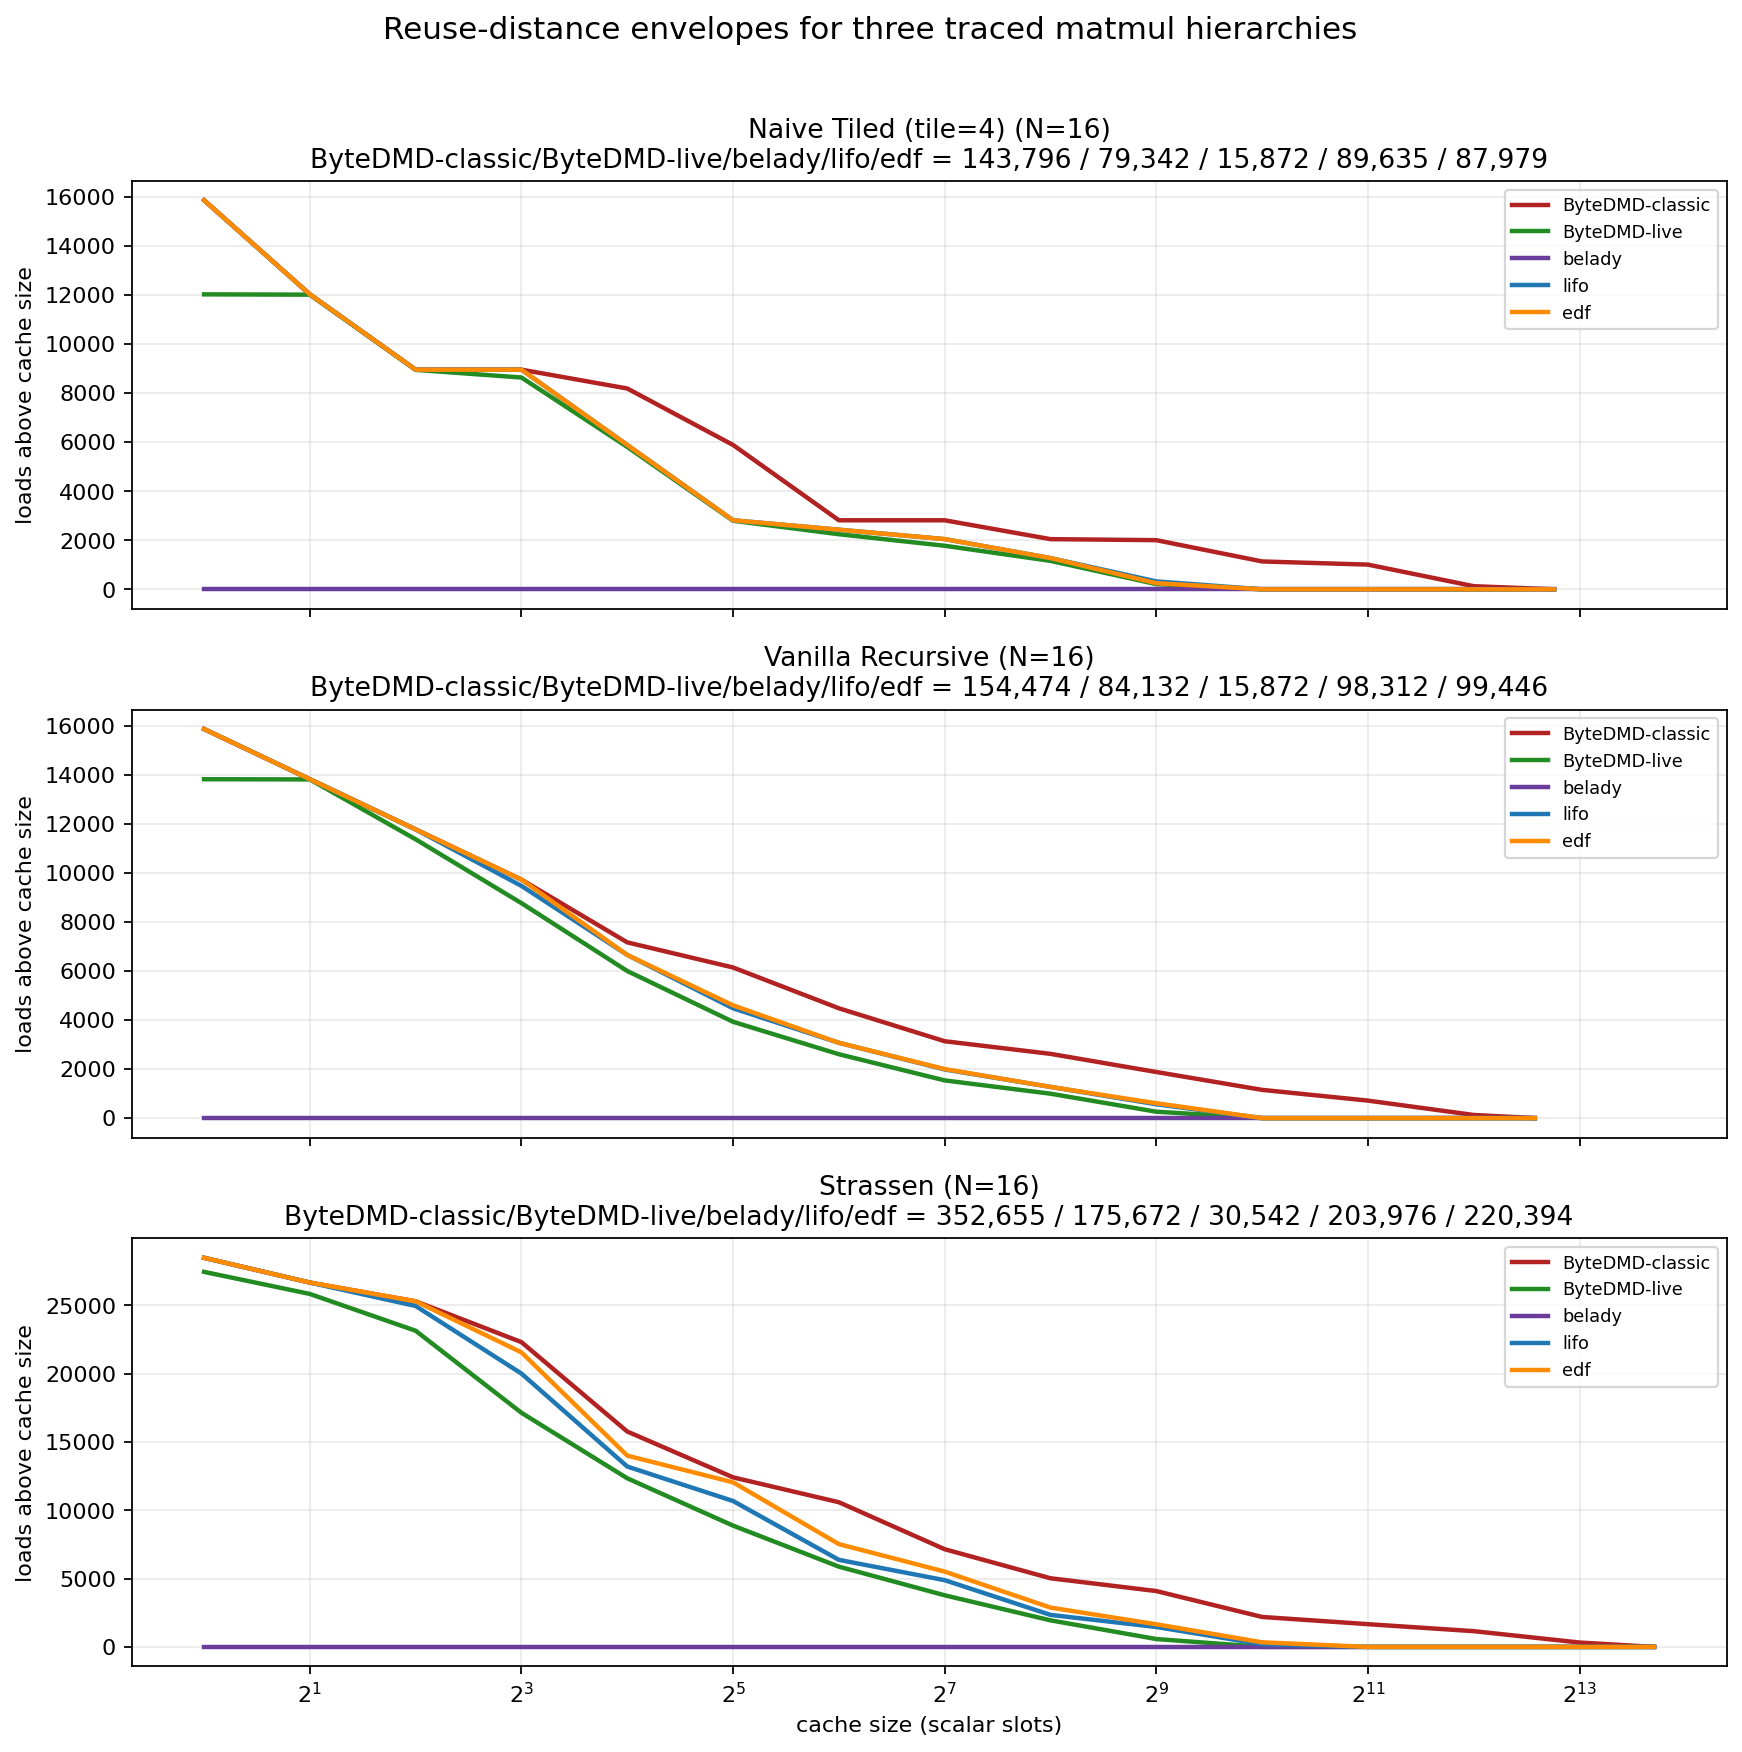
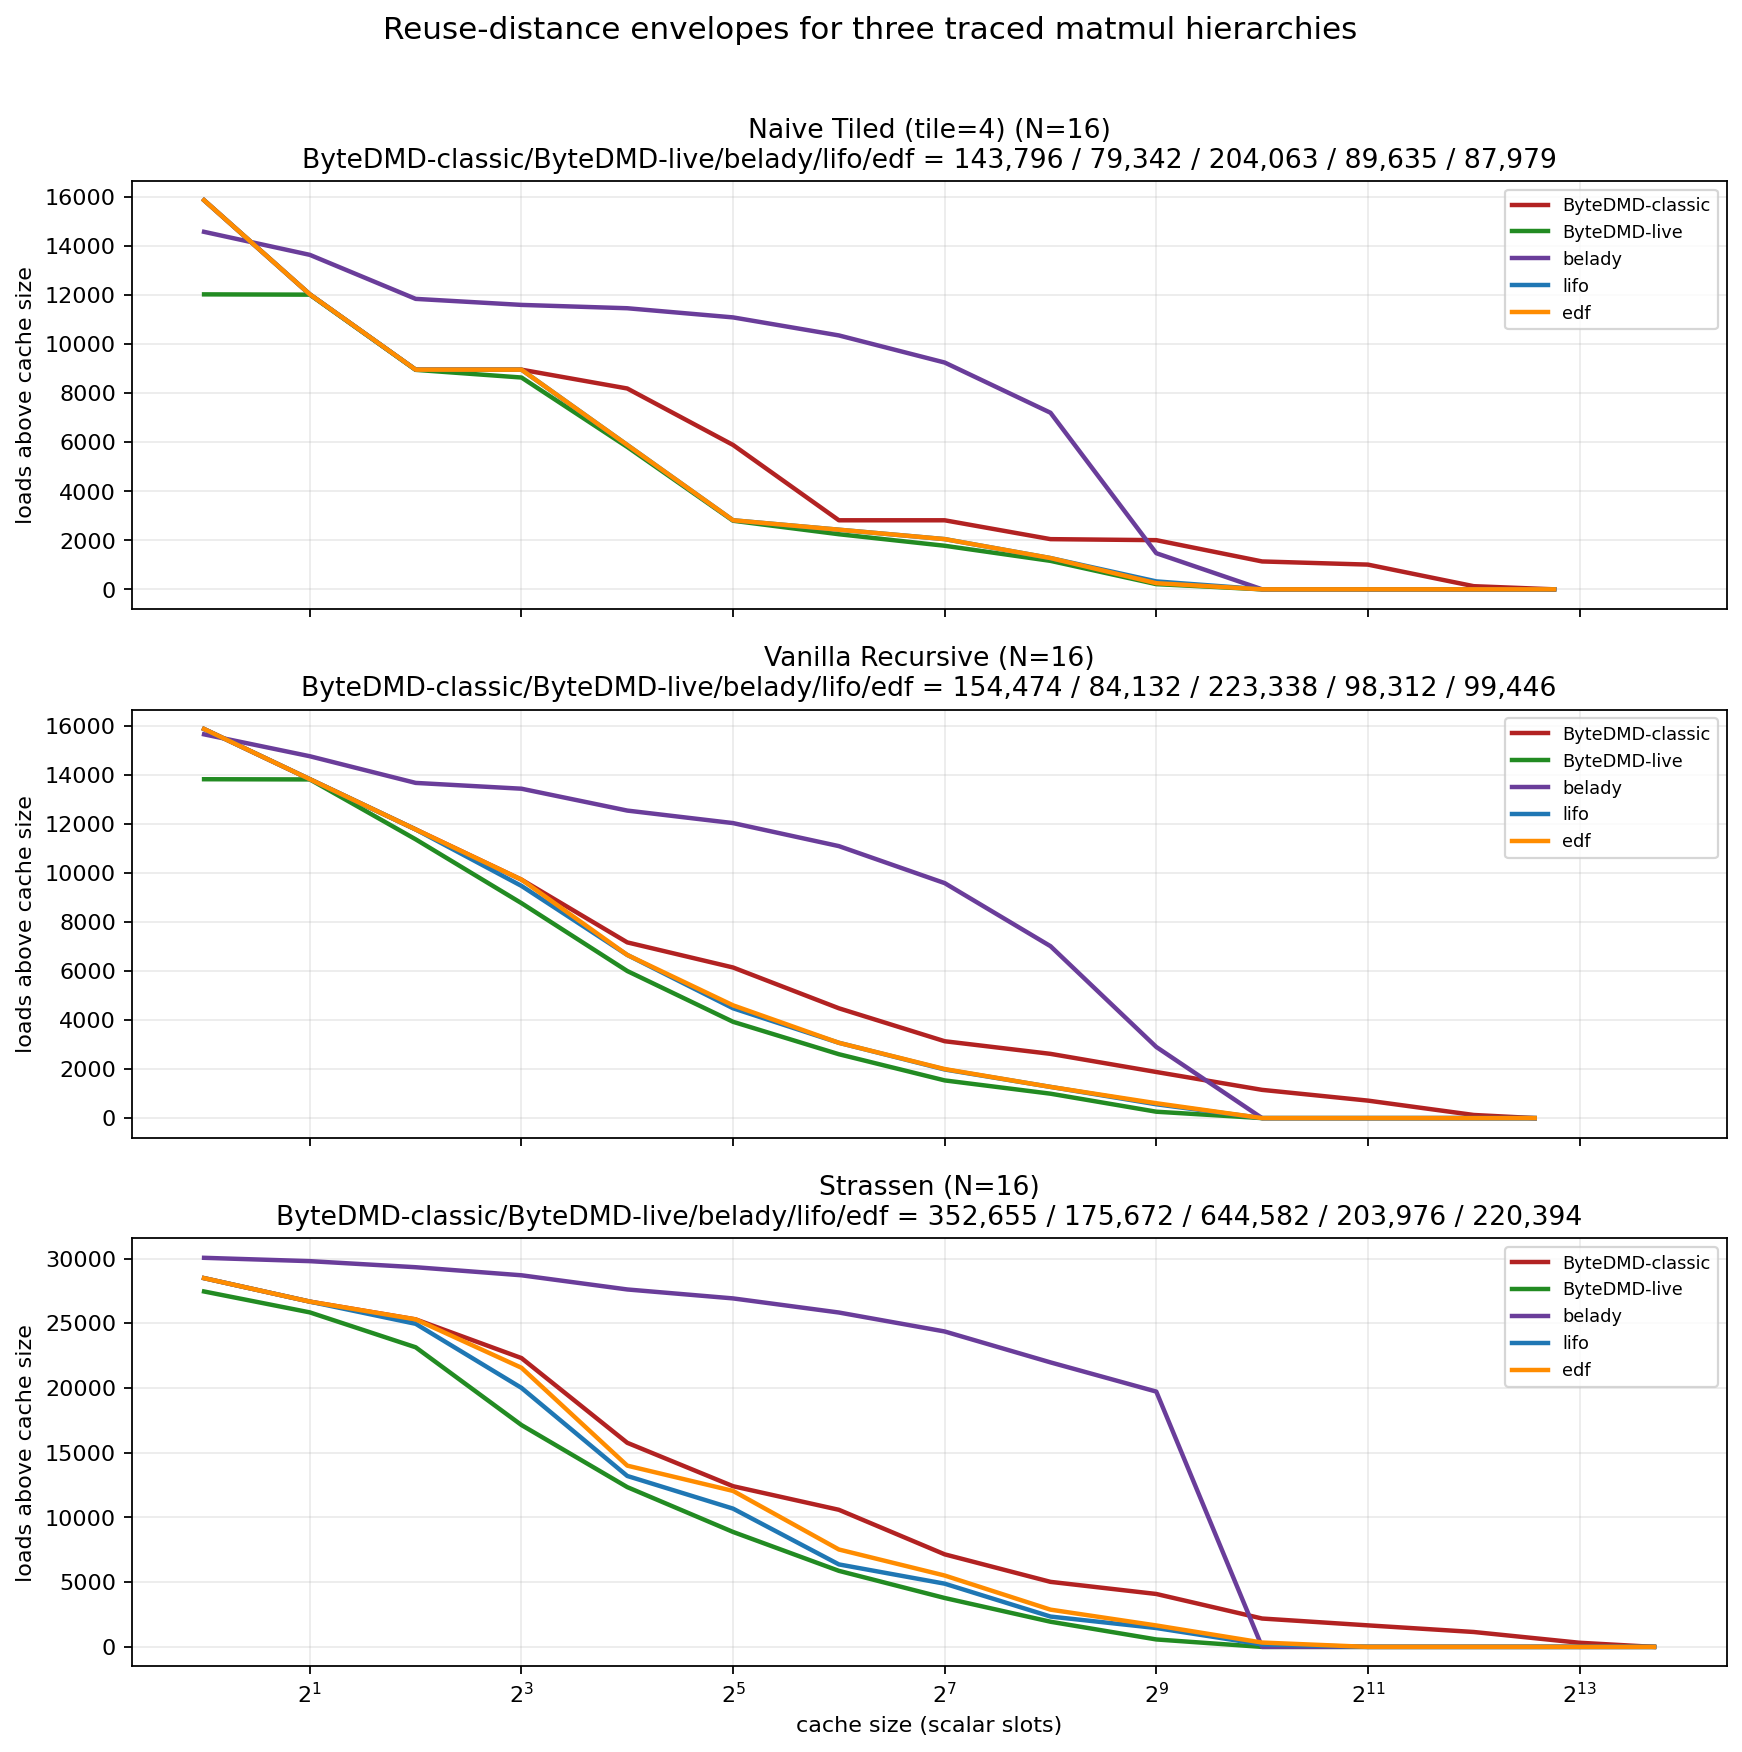
Refine Belady into stable-address heuristic

diff --git a/experiments/matmul_hierarchy/hierarchy.py b/experiments/matmul_hierarchy/hierarchy.py
@@ -12,7 +12,6 @@ slot-allocation policies, producing a physical load/store trace.
 
 from __future__ import annotations
 
-import bisect
 from collections import deque
 from dataclasses import dataclass
 import itertools
@@ -410,16 +409,60 @@ def _future_load_indices(program: TraceProgram) -> Dict[str, deque[int]]:
     return future
 
 
+def _choose_belady_address(
+    next_use: float,
+    symbol: str,
+    live_addresses: Dict[str, int],
+    future_loads: Dict[str, deque[int]],
+    free_addresses: List[int],
+    next_address: int,
+) -> tuple[int, int]:
+    """Assign a stable base address using offline next-use information."""
+
+    if not free_addresses:
+        return next_address, next_address + 1
+
+    live_order = sorted(
+        (
+            (loads[0], live_symbol)
+            for live_symbol, loads in future_loads.items()
+            if live_symbol in live_addresses and loads
+        ),
+        key=lambda item: (item[0], item[1]),
+    )
+
+    target_rank = 1
+    for future_use, live_symbol in live_order:
+        if (future_use, live_symbol) < (next_use, symbol):
+            target_rank += 1
+        else:
+            break
+
+    chosen = min(free_addresses, key=lambda address: (abs(address - target_rank), address))
+    free_addresses.remove(chosen)
+    return chosen, next_address
+
+
 def _compile_belady_trace(program: TraceProgram, *, policy: str) -> List[ConcreteAccess]:
-    """Oracle two-pass Belady trace with next-use-ranked live bytes."""
+    """Two-pass Belady-inspired stable-address heuristic."""
 
     future_loads = _future_load_indices(program)
-    active_next_use: Dict[str, int] = {
-        symbol: loads[0]
-        for symbol, loads in future_loads.items()
-        if program.symbol_roles.get(symbol) == "input"
-    }
-    ordered_live = sorted((next_use, symbol) for symbol, next_use in active_next_use.items())
+    initial_live = sorted(
+        (
+            (loads[0], symbol)
+            for symbol, loads in future_loads.items()
+            if program.symbol_roles.get(symbol) == "input" and loads
+        ),
+        key=lambda item: (item[0], item[1]),
+    )
+
+    live_addresses: Dict[str, int] = {}
+    next_address = 1
+    for _first_use, symbol in initial_live:
+        live_addresses[symbol] = next_address
+        next_address += 1
+
+    free_addresses: List[int] = []
     compiled: List[ConcreteAccess] = []
 
     for _index, access in enumerate(program.abstract_accesses):
@@ -428,26 +471,31 @@ def _compile_belady_trace(program: TraceProgram, *, policy: str) -> List[Concret
         if access.kind == "store":
             loads = future_loads.get(symbol)
             if loads:
-                active_next_use[symbol] = loads[0]
-                item = (loads[0], symbol)
-                insert_at = bisect.bisect_left(ordered_live, item)
-                ordered_live.insert(insert_at, item)
-                address = insert_at + 1
+                address, next_address = _choose_belady_address(
+                    float(loads[0]),
+                    symbol,
+                    live_addresses,
+                    future_loads,
+                    free_addresses,
+                    next_address,
+                )
+                live_addresses[symbol] = address
             else:
-                address = len(active_next_use) + 1
+                address, next_address = _choose_belady_address(
+                    math.inf,
+                    symbol,
+                    live_addresses,
+                    future_loads,
+                    free_addresses,
+                    next_address,
+                )
         else:
-            current_item = (active_next_use[symbol], symbol)
-            current_at = bisect.bisect_left(ordered_live, current_item)
-            address = current_at + 1
-            ordered_live.pop(current_at)
+            address = live_addresses[symbol]
             loads = future_loads[symbol]
             loads.popleft()
-            if loads:
-                active_next_use[symbol] = loads[0]
-                next_item = (loads[0], symbol)
-                bisect.insort_left(ordered_live, next_item)
-            else:
-                active_next_use.pop(symbol, None)
+            if not loads:
+                free_addresses.append(live_addresses.pop(symbol))
+                free_addresses.sort()
 
         compiled.append(
             ConcreteAccess(

diff --git a/experiments/matmul_hierarchy/report.md b/experiments/matmul_hierarchy/report.md
@@ -54,11 +54,11 @@ If you look at the *incremental shell sizes* between tiers, those are the odd nu
 | `never-reuse` | concrete | no | yes | Compiled addresses never recycled; concrete analog of `ByteDMD-classic` |
 | `lifo` | concrete | no | yes | Reuse the most recently freed concrete slot |
 | `edf` | concrete | yes, at interval level | yes | Offline interval packing of temp lifetimes into fixed slots |
-| `belady` | oracle | yes, exact next use | no | Two-pass oracle ranking of the live set by next use at every step |
+| `belady` | concrete | yes, exact next use | yes | Two-pass Belady-inspired heuristic that chooses fixed base addresses using next-use information |
 
-The crucial distinction is that `belady` is **not** a stable-address compiler. It is an
-oracle live-set ranking. The emitted `addr` is really a slot rank in the current optimal
-ordering, not a persistent physical location.
+The crucial distinction now is that `belady` **is** a stable-address compiler heuristic.
+It uses future knowledge only when assigning a base address to a value. Once assigned,
+that address stays fixed until the value dies.
 
 ## Sample trace
 
@@ -92,34 +92,21 @@ store t3_add         addr= 770 role=temp
 
 The logical and concrete traces have the same control/dataflow, but concrete slot reuse changes the reuse-distance curve.
 
-## Why Belady can be lower than ByteDMD-live
+## What Belady means now
 
-Yes, it is normal **for the current oracle Belady column** to be lower than `ByteDMD-live`.
+`belady` is no longer a free oracle re-ranking of the live set.
 
-That does **not** mean a realistic compiled program with fixed addresses is doing less data
-movement than the live-byte logical model. It means the current `belady` method is solving
-a different, more optimistic problem:
+Instead:
 
-1. `ByteDMD-live` keeps the access order fixed and uses the induced logical LRU order on the live set.
-2. `belady` gets a full second pass and knows the exact next use of every live byte.
-3. At each step it is allowed to re-rank the entire live set by next use and then charge the load against that oracle rank.
-4. No cost is charged for changing that ranking.
+1. Pass 1 records every future load.
+2. When a new value is stored, the allocator looks at the next use of every currently live value.
+3. It assigns the **new value a fixed base address** using that next-use information.
+4. Later loads are charged from that concrete address using the same tiered cost model.
 
-So `belady` is acting like an **offline lower bound on the live set**, not like a compiled
-stable-address trace. That is why it can drop below `ByteDMD-live`, and why the `belady`
-curve can become almost all depth-1 loads for tiled and recursive matmul.
-
-If the goal is a realistic compiler model, then the directly comparable columns are:
-
-- `ByteDMD-classic`
-- `ByteDMD-live`
-- `never-reuse`
-- `lifo`
-- `edf`
-
-If the goal is an **oracle lower bound with full future knowledge**, then `belady` is the
-right column to keep, but it should be interpreted as an optimistic bound rather than as a
-physical allocator.
+So `belady` is now a genuine **offline stable-address heuristic**, not an oracle lower bound.
+Because early temporaries often arrive only after the input matrices have already occupied the
+cheapest addresses, this fixed-address Belady can actually be **more expensive** than
+`ByteDMD-live`, `lifo`, or `edf`.
 
 ## N=16 results
 
@@ -144,25 +131,22 @@ then converts each depth trace into:
 
 | Algorithm | ByteDMD-classic | ByteDMD-live | never-reuse | belady | lifo | edf |
 |-----------|-----------------:|-------------:|------------:|-------:|-----:|----:|
-| Tiled | 143,796 | 79,342 | 143,796 | 15,872 | 89,635 | 87,979 |
-| Recursive | 154,474 | 84,132 | 154,474 | 15,872 | 98,312 | 99,446 |
-| Strassen | 352,655 | 175,672 | 352,655 | 30,542 | 203,976 | 220,394 |
+| Tiled | 143,796 | 79,342 | 143,796 | 204,063 | 89,635 | 87,979 |
+| Recursive | 154,474 | 84,132 | 154,474 | 223,338 | 98,312 | 99,446 |
+| Strassen | 352,655 | 175,672 | 352,655 | 644,582 | 203,976 | 220,394 |
 
 `never-reuse` is included explicitly because it is the compiled concrete policy that corresponds to `ByteDMD-classic` in this pipeline.
 
-`belady` is now a true **offline two-pass oracle** over the logical trace: in pass 1 it records every future load, and in pass 2 it keeps the current live set ranked by the next time each live byte will be used. The emitted `addr` for a Belady access is that byte's current oracle slot rank. This makes `belady` an optimistic lower-bound allocator, not a stable-address compiler like `never-reuse` or `lifo`.
+`belady` is now a true **offline two-pass stable-address heuristic** over the logical trace:
+in pass 1 it records every future load, and in pass 2 it uses the next-use times of the live
+set only when picking a new fixed base address for each stored value.
 
 The qualitative interpretation stays the same:
 
 - **ByteDMD-live** is a clear lower envelope and **ByteDMD-classic** is a clear upper envelope.
-- `belady` is much lower than the stable-address policies here because it is an oracle next-use ranking over the live set, not a persistent-address allocator.
-- `lifo` and `edf` remain the concrete stable-address policies in this table, so their ordering is empirical rather than guaranteed by one simple dominance relation.
-
-For the current implementation, the clean interpretation is:
-
-- `ByteDMD-live` = best online logical model without oracle reordering
-- `belady` = offline oracle lower bound on that live set
-- `lifo` / `edf` = realistic compiled-slot heuristics
+- `belady`, `lifo`, and `edf` are all concrete stable-address policies now.
+- `belady` uses more future knowledge than `lifo` or `edf`, but because it pays from fixed base addresses rather than from free re-ranking, it is not automatically cheaper.
+- Their ordering is empirical rather than guaranteed by one simple dominance relation.
 
 ## Plot
 
@@ -172,7 +156,8 @@ The curves show `loads above cache size` against cache capacity in scalar slots.
 
 - `ByteDMD-live` is the optimistic lower bound
 - `ByteDMD-classic` is the pessimistic upper bound
-- `lifo` and `edf` stay between them, while `belady` is an oracle live-set ranking that can dip below `ByteDMD-live`
+- `lifo` and `edf` stay between them on this experiment
+- `belady` is a fixed-address heuristic and can land above either abstract model
 
 ## Tests
 

diff --git a/experiments/README.md b/experiments/README.md
@@ -5,4 +5,4 @@ Stand-alone experiments that go beyond the canonical benchmarks in `benchmarks/`
 ## Index
 
 - [`memory_management/`](memory_management/report.md) — Three memory management strategies (unmanaged, tombstone GC, aggressive compaction) tested on five matmul algorithms (naive, recursive with temporaries, in-place RMM lex, in-place RMM Gray-code, Strassen) at sizes N=2..64. Both discrete (`ceil(sqrt(d))`) and continuous (integral) ByteDMD costs are computed. Headline finding: at N=64 under aggressive memory management, **Gray-code swizzled in-place RMM beats Strassen by 2.4×**. The polynomial shapes match Gemini's analytical formulas with extraordinary fit quality (max error <1.2% for in-place RMM), but the leading constants are 0.4×–0.85× of the analytical upper bounds because the LRU dynamics give shallower depths than the static-watermark model.
-- [`matmul_hierarchy/`](matmul_hierarchy/report.md) — Final report for an explicit three-level tracing pipeline for tiled, recursive, and Strassen matmul: Python source, abstract logical load/store trace, and compiled concrete-address trace. Includes `N=16` cache-size sweep plots, a glossary for `ByteDMD-classic`, `ByteDMD-live`, `never-reuse`, `belady`, `lifo`, and `edf`, plus a note that `belady` is an offline oracle lower bound rather than a stable-address compiler.
+- [`matmul_hierarchy/`](matmul_hierarchy/report.md) — Final report for an explicit three-level tracing pipeline for tiled, recursive, and Strassen matmul: Python source, abstract logical load/store trace, and compiled concrete-address trace. Includes `N=16` cache-size sweep plots, a glossary for `ByteDMD-classic`, `ByteDMD-live`, `never-reuse`, `belady`, `lifo`, and `edf`, and a stable-address two-pass Belady heuristic that uses future next-use information only when assigning base addresses.
